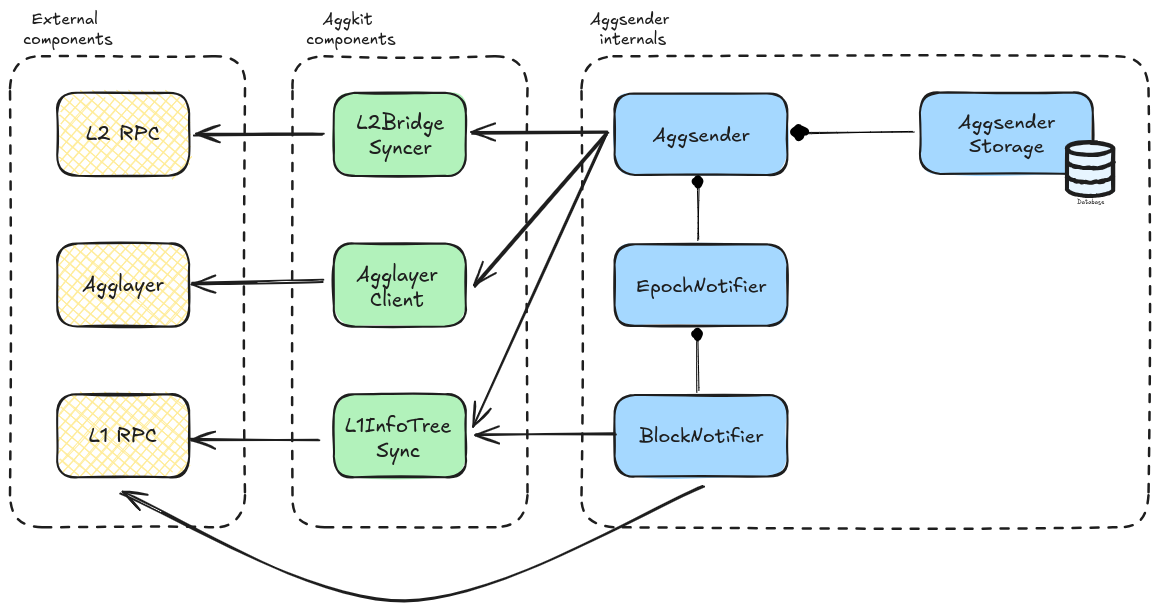
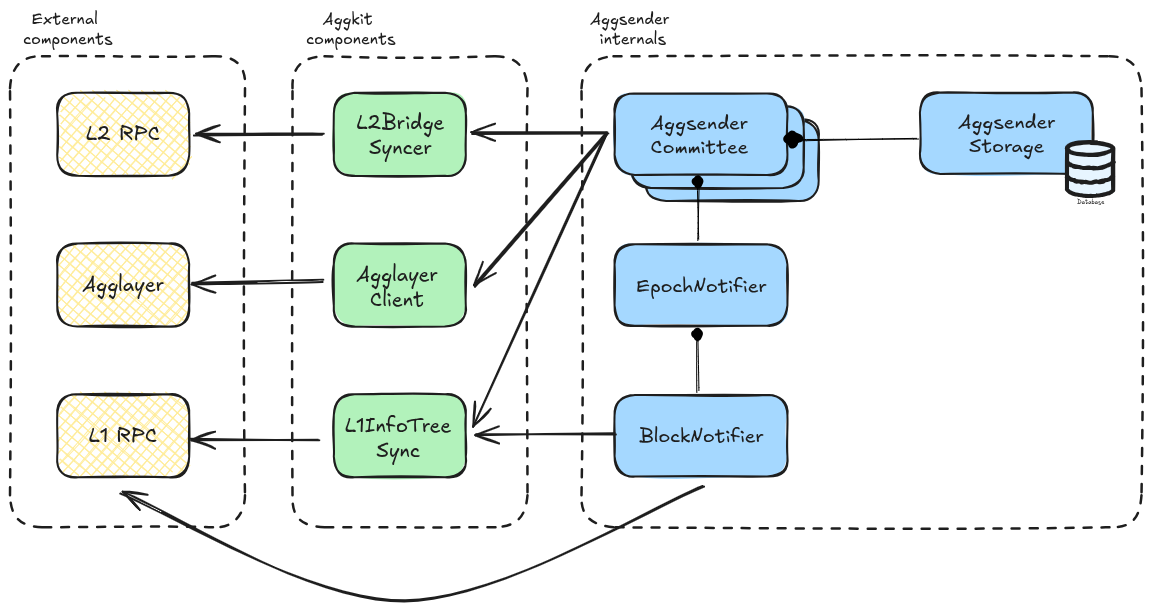
update docs

diff --git a/docs/aggsender.md b/docs/aggsender.md
@@ -1,6 +1,14 @@
 # AggSender Component
 
-`AggSender` is responsible for building and packing the information required to prove a target chain's bridge state into a certificate. This certificate provides the inputs needed to build a pessimistic proof.
+`AggSender` is responsible for building and packing the information required to prove a target chain's bridge state into a certificate. This certificate provides the inputs needed to build a proof that is eventually going to be settled on L1 via the agglayer.
+
+The `AggSender` consists of a multisig committee, where one participant acts as the proposer, and the remaining members act as validators.
+The proposer is responsible for building the certificate and propagating it to the validators for verification via gRPC. Each validator independently validates the proposed certificate and returns a signature if the validation is successful.
+
+The multisig committee is registered on the [rollup](https://github.com/agglayer/agglayer-contracts/blob/d1a1b7e33d03ad162b6019fbbb1b23110ed8fa95/contracts/lib/AggchainBase.sol#L73-L77) contract on L1. It contains a list of signers, each represented by an Ethereum address and a URL.
+It is important that when initializing the rollup contract:
+- the first signer in the list corresponds to the `AggSender proposer`. For the proposer, the url parameter may be omitted (as it is not used for validation requests).
+- the remaining signers represent `AggSender validators`, and their url fields must be properly set, as these endpoints are used to send certificate validation requests via gRPC.
 
 ## Component Diagram
 
@@ -22,12 +30,19 @@ The image below depicts the `Aggsender` components (the editable link of the dia
 ```mermaid
 sequenceDiagram
     participant Agglayer
-    participant Aggsender
+    participant Aggsender Proposer
+    participant Aggsender Validator 1
+    participant Aggsender Validator N
 
-    Aggsender->>Agglayer: Read epoch configuration
-    Aggsender->>Agglayer: Read latest known certificate
-    Aggsender-->>Aggsender: Wait for an epoch
-    Aggsender->>Agglayer: Send certificate
+    Aggsender Proposer->>Agglayer: Read epoch configuration
+    Aggsender Proposer->>Agglayer: Read latest known certificate
+    Aggsender Proposer-->>Aggsender Proposer: Wait for an epoch
+    Aggsender Proposer-->>Aggsender Proposer: Build certificate
+    Aggsender Proposer->>Aggsender Validator 1: Validate certificate
+    Aggsender Proposer->>Aggsender Validator N: Validate certificate
+    Aggsender Validator 1-->>Aggsender Proposer: Return signature if valid
+    Aggsender Validator N-->>Aggsender Proposer: Return signature if valid
+    Aggsender Proposer->>Agglayer: Send certificate
 ```
 
 ### PessimisticProof Mode
